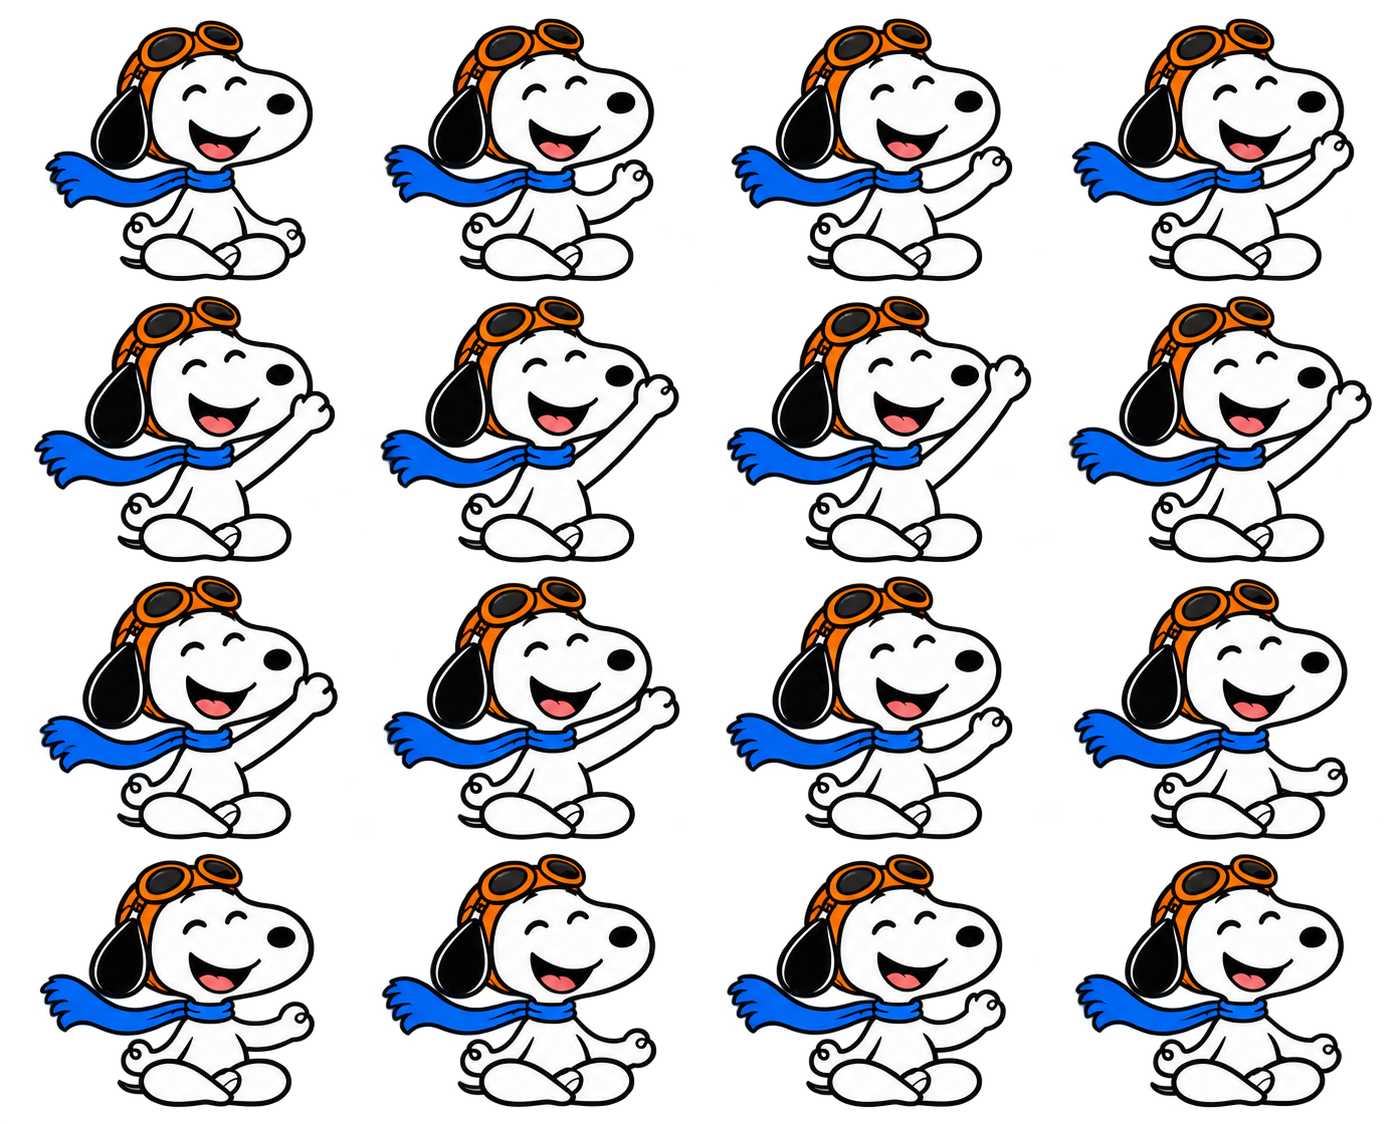
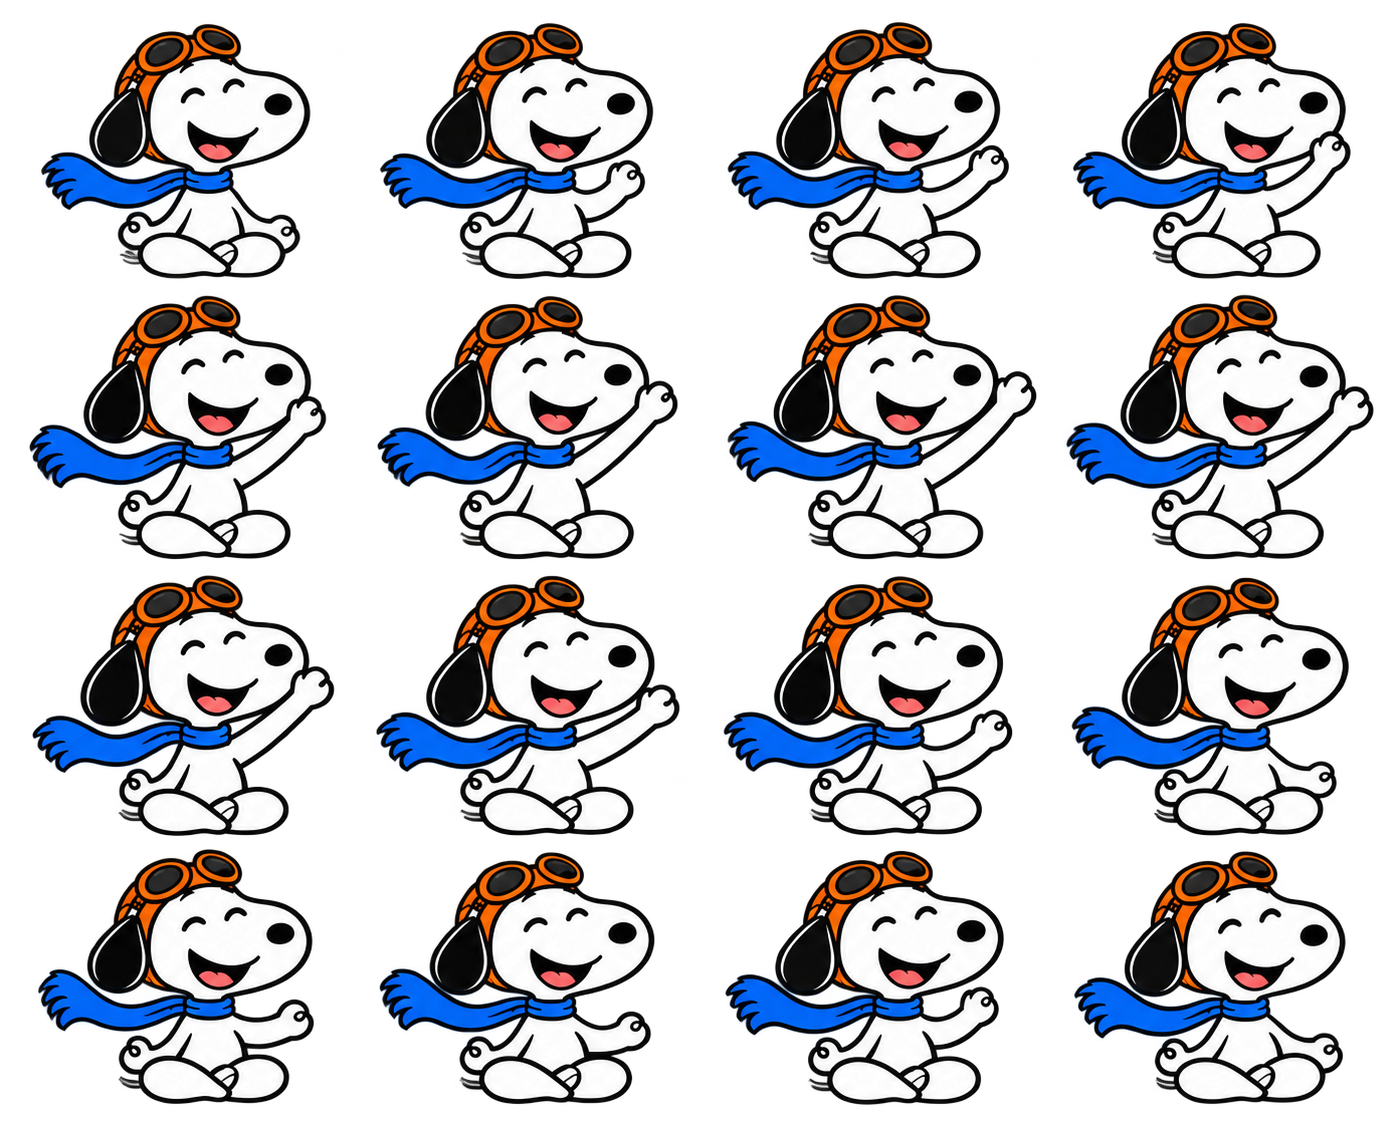
Keep animation atlas seams transparent

diff --git a/native-base/test_static_moods.py b/native-base/test_static_moods.py
@@ -23,6 +23,15 @@ assert static_mood('guidebook_header_duo_gem') == 'gem'
 for mood,source in MOOD_SCENES.items():
     with Image.open(ROOT/'app/assets/mascot'/source) as image:
         assert image.mode=='RGBA' and image.getchannel('A').getextrema()[0]==0,mood
+# The native drawable slices this atlas at quarter-width/height boundaries.
+# No visible pixels may touch a seam: otherwise a neighbouring pose leaks
+# into the next frame or its body is clipped at the boundary.
+with Image.open(ROOT/'app/assets/mascot/wave-atlas.png') as image:
+    alpha=image.getchannel('A');width,height=image.size
+    for i in range(1,4):
+        x=width*i//4;y=height*i//4
+        assert max(alpha.getpixel((x,v)) for v in range(height))<=8,('wave column',i)
+        assert max(alpha.getpixel((u,y)) for u in range(width))<=8,('wave row',i)
 with zipfile.ZipFile(APK) as base:table=base.read('resources.arsc')
 table,provider=updater_paths(table);table,scene=scene_mascot(table);table,ids=mood_scenes(table)
 assert provider==0x7f160016 and len(ids)==len(MOOD_SCENES)

diff --git a/native-base/DEVELOPMENT_2.md b/native-base/DEVELOPMENT_2.md
@@ -80,14 +80,20 @@ were unsorted; the follow-up orders height before width and reports failures
 separately. Run 41374041351 then loaded the original drawable and confirmed
 different frames. Inflating the complete fragment from an instrumentation
 application context failed on an unrelated themed text widget; the revised
-probe inflates the original image element in isolation. Neither this nor the
-frame check proves the attached screen or smooth playback works.
+probe inflates the original image element in isolation and passed in run
+41374984771. That run exposed visible pixels on the source atlas cell seams;
+the source image was replaced and host assertions now check transparent seams.
+The replacement atlas must be retested on Android. Neither the old test nor
+the frame check proves the attached screen or smooth playback works.
 
 The separate two-section diagnostic shows both section cards in the original
 picker. Its first test tapped the second card only once, expanding it rather
-than opening the inner row, so navigation was not established. A corrected
-two-tap diagnostic is running on the separate research branch. It contains no
-production content for the second midterm.
+than opening the inner row. Android run 41374119769 tapped the inner row and
+actually showed the second section's diagnostic path; the test failed only
+because it expected a topic title where the original header showed Midterm 2.
+A follow-up on the separate research branch adds the topic title and tests
+opening its synthetic lesson. There is no production second-midterm content,
+nor evidence yet for grading, persistence, rewards or a real course there.
 
 Android run 41372273142 also graded the five-step isothermal pressure-ratio
 diagnostic. Its screenshot shows the final ratio question and the hint button;
